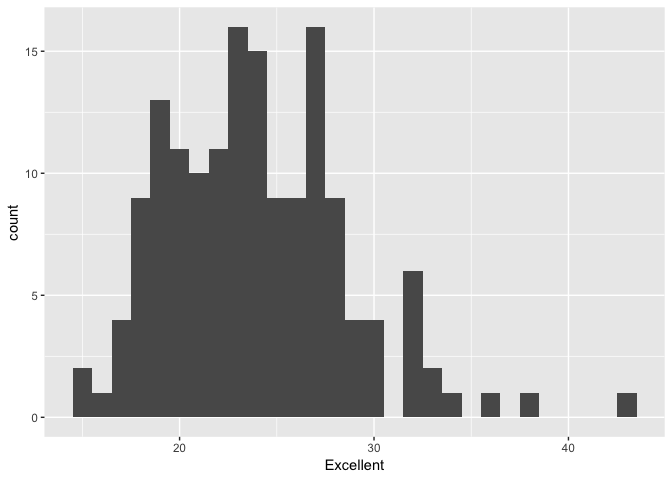
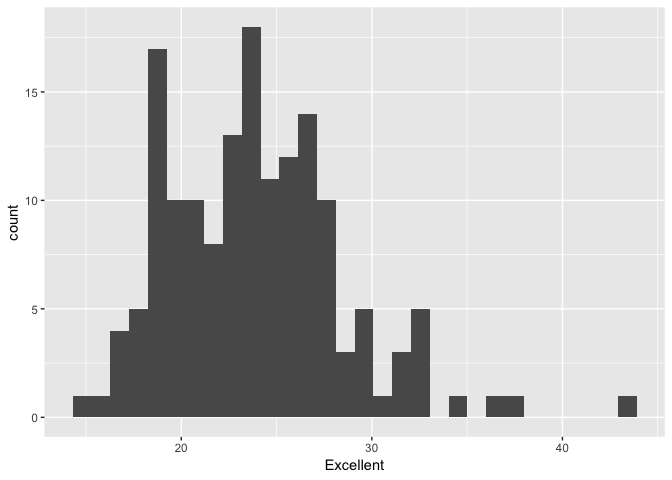
Find out the most appeared state

diff --git a/p8105_hw2_hn2339_.md b/p8105_hw2_hn2339_.md
@@ -27,8 +27,11 @@ Question 1
 
 ``` r
 NYC_Subway <- read_csv("data /NYC_Subway.csv") %>%
+  # clean the name to lower case 
   janitor::clean_names() %>%
+  # remove the unwante columns 
   select(-division, -exit_only, -staffing, -staff_hours, -free_crossover, -north_south_street, -east_west_street, -corner, -station_location, -entrance_location, -entrance_longitude, -entrance_latitude) %>%
+  # convert the entry variable from "YES NO" to "TRUE FALSE"
   mutate(entry = recode(entry, "YES" = TRUE, "NO" = FALSE)) 
 ```
 
@@ -52,7 +55,7 @@ NYC_Subway <- read_csv("data /NYC_Subway.csv") %>%
 There are totally 20 variables in this data set. Retain line, statation name, station longitude/latitude, route1~11, entrance type, entry, vending and ADA compliance. Step 1 is change the capital letter to lower case. Step 2 is remove all the unwanted columns. Step 3 is change the entry variable (YES or NO) to logical variable (TRUE or FLASE). The data is not tidy yet.
 
 ``` r
- #. keep_all = TRUE keep all other data 
+ #find the distinct station, . keep_all = TRUE keep all other data 
 distinct_station = distinct(NYC_Subway, station_name, line, route1, .keep_all = TRUE) 
    dim(distinct_station)
 ```
@@ -60,6 +63,7 @@ distinct_station = distinct(NYC_Subway, station_name, line, route1, .keep_all = 
     ## [1] 466  20
 
 ``` r
+#
 ADA_compliant = filter(distinct_station, ada == TRUE)
    dim(ADA_compliant)
 ```
@@ -147,26 +151,26 @@ library(p8105.datasets)
     Scatter_plot = filter(BRFSS, locationdesc == "NY - New York Country" | locationdesc == "NY - Queens Country")
     destination = distinct(BRFSS, locationdesc, .keep_all = TRUE) 
     state = distinct(BRFSS, locationabbr, .keep_all = TRUE)
+    most = tail(names(sort(table(BRFSS$locationabbr))), 1)
     Excellent_2002 = filter(BRFSS, year == "2002") %>%
+    # 
     mutate(proportion = (Excellent + `Very good` ) / (Excellent + Fair + Good + Poor + `Very good`))
+#make the histogram 
     ggplot(Excellent_2002, aes(x = Excellent)) +
-      geom_histogram(binwidth = 1)
+      geom_histogram()
 ```
+
+    ## `stat_bin()` using `bins = 30`. Pick better value with `binwidth`.
 
     ## Warning: Removed 2 rows containing non-finite values (stat_bin).
 
 ![](p8105_hw2_hn2339__files/figure-markdown_github/unnamed-chunk-8-1.png)
 
 ``` r
+#make the scatterplot 
     Scatter = filter(BRFSS, locationdesc == "NY - New York County" | locationdesc == "NY - Queens County")
     ggplot(Scatter, aes(x = year, y = Excellent)) + 
       geom_point(aes(color = locationdesc), alpha = 0.5)
 ```
 
-![](p8105_hw2_hn2339__files/figure-markdown_github/unnamed-chunk-8-2.png) The number of unique destination is 404. The number of unique state is 51. So every state is represented.
-
-The median of 2002 excellent is 23.6
-
-``` r
-Scatter = filter(brfss_smart2010, Locationdesc == "NY - New York County" )
-```
+![](p8105_hw2_hn2339__files/figure-markdown_github/unnamed-chunk-8-2.png) The number of unique destination is 404. The number of unique state is 51. So every state is represented. The most state which observed most is NJ. The median of 2002 excellent is 23.6
